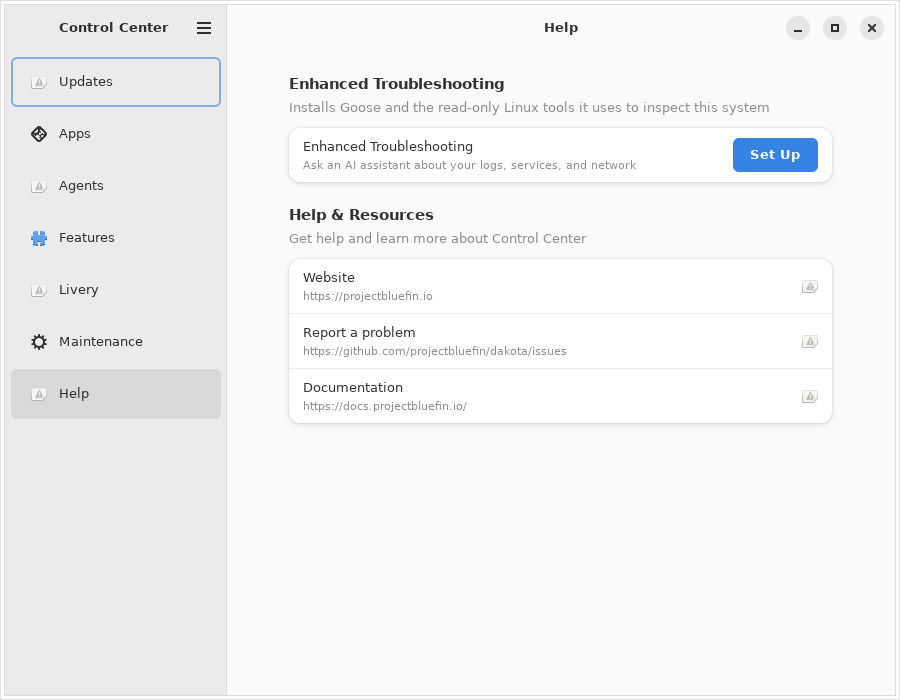
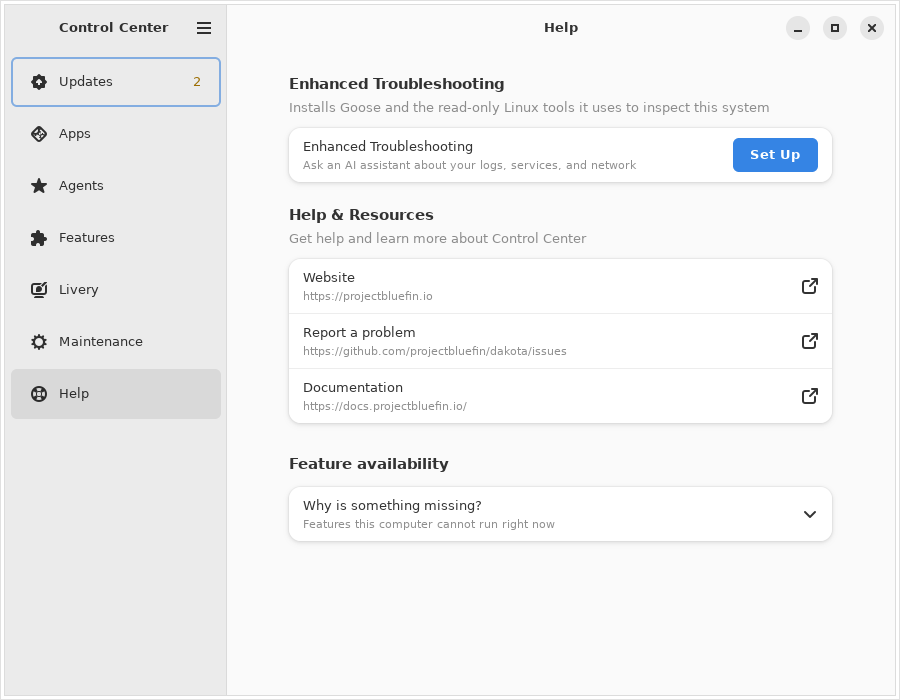
feat(help): explain features the host cannot back (#319)
Help gains a "Feature availability" group with one collapsed
"Why is something missing?" row. It lists every group the configuration
enables but the capability floor hides, with a human title and the
missing tool or file, from the capability set the window already
resolved — nothing is re-probed. A group the configuration disables is
the administrator's choice and is not listed; the group is absent when
nothing is missing.

The presentation is pure (pageview.UnavailableFeatures) and its title
table is held total over the capability-gated groups.

Closes #209

Assisted-by: Claude Opus 5.5 via GitHub Copilot

diff --git a/internal/views/pageview/unavailable.go b/internal/views/pageview/unavailable.go
@@ -1,0 +1,68 @@
+package pageview
+
+import (
+	"strings"
+
+	"github.com/projectbluefin/chairlift/internal/bootc"
+	"github.com/projectbluefin/chairlift/internal/capability"
+	"github.com/projectbluefin/chairlift/internal/imageinfo"
+)
+
+// featureTitles names every group the capability floor can hide. Groups with
+// no prerequisite are never hidden by it, so they have no entry;
+// TestEveryCapabilityGatedGroupHasATitle holds the table total over
+// capability.Prerequisites.
+var featureTitles = map[[2]string]string{
+	{"updates_page", "bootc_updates_group"}:       "System updates",
+	{"updates_page", "flatpak_updates_group"}:     "App updates",
+	{"updates_page", "brew_updates_group"}:        "Developer tool updates",
+	{"updates_page", "brew_trust_group"}:          "Unverified Homebrew sources",
+	{"updates_page", "channel_group"}:             "Release channel",
+	{"applications_page", "flatpak_user_group"}:   "Your apps",
+	{"applications_page", "flatpak_system_group"}: "Shared apps",
+	{"applications_page", "brew_group"}:           "Packages from Homebrew",
+	{"applications_page", "brew_search_group"}:    "Find more apps and tools",
+	{"applications_page", "brew_bundles_group"}:   "App collections",
+	{"agents_page", "agents_group"}:               "Agent Mode",
+	{"features_page", "dx_group"}:                 "Developer mode",
+	{"features_page", "gaming_group"}:             "Gaming mode",
+	{"help_page", "troubleshooting_group"}:        "Enhanced Troubleshooting",
+	{"maintenance_page", "reset_group"}:           "Recovery",
+}
+
+// capabilityNames is what a person would look for on their system to supply
+// one capability. Technical names are fine here: the rows sit behind an
+// expander the user opened to ask why.
+var capabilityNames = map[capability.Capability]string{
+	capability.Flatpak:         "Flatpak",
+	capability.Homebrew:        "Homebrew",
+	capability.Distrobox:       "Distrobox",
+	capability.BootcStage:      bootc.StageScriptPath,
+	capability.ImageDescriptor: imageinfo.DescriptorPath,
+}
+
+// UnavailableFeatures lists the groups configuration enables but the host
+// capability set hides, each titled for a person and subtitled with what is
+// missing. It consumes the already-resolved set, so explaining never
+// re-probes. A nil configured predicate lists nothing: a group configuration
+// disabled is the administrator's choice, not a missing tool.
+func UnavailableFeatures(set capability.Set, configured func(page, group string) bool) []Row {
+	if configured == nil {
+		return nil
+	}
+	var rows []Row
+	for _, p := range capability.Prerequisites() {
+		if !configured(p.Page, p.Group) || set.Supports(p.Page, p.Group) {
+			continue
+		}
+		missing := make([]string, len(p.AnyOf))
+		for i, c := range p.AnyOf {
+			missing[i] = capabilityNames[c]
+		}
+		rows = append(rows, Row{
+			Title:    featureTitles[[2]string{p.Page, p.Group}],
+			Subtitle: "Needs " + strings.Join(missing, " or "),
+		})
+	}
+	return rows
+}

diff --git a/internal/views/pageview/unavailable_test.go b/internal/views/pageview/unavailable_test.go
@@ -1,0 +1,94 @@
+package pageview
+
+import (
+	"testing"
+
+	"github.com/projectbluefin/chairlift/internal/capability"
+)
+
+func onlyGroups(pairs ...[2]string) func(page, group string) bool {
+	return func(page, group string) bool {
+		for _, p := range pairs {
+			if p == [2]string{page, group} {
+				return true
+			}
+		}
+		return false
+	}
+}
+
+func allGroups(string, string) bool { return true }
+
+func TestUnavailableFeaturesListsConfiguredGroupsTheHostCannotBack(t *testing.T) {
+	configured := onlyGroups(
+		[2]string{"updates_page", "flatpak_updates_group"},
+		[2]string{"maintenance_page", "reset_group"},
+		[2]string{"agents_page", "agents_group"},
+	)
+	// Homebrew present backs Agent Mode; Distrobox alone backs Recovery.
+	set := capability.Set{capability.Homebrew: true}
+
+	got := UnavailableFeatures(set, configured)
+	want := []Row{
+		{Title: "Recovery", Subtitle: "Needs Flatpak or Distrobox"},
+		{Title: "App updates", Subtitle: "Needs Flatpak"},
+	}
+	if len(got) != len(want) {
+		t.Fatalf("UnavailableFeatures() = %+v, want %+v", got, want)
+	}
+	for i := range want {
+		if got[i] != want[i] {
+			t.Errorf("row %d = %+v, want %+v", i, got[i], want[i])
+		}
+	}
+}
+
+func TestUnavailableFeaturesOmitsConfigDisabledGroups(t *testing.T) {
+	// Nothing on the host, but configuration enables nothing either: every
+	// hidden group is the administrator's choice, not a missing tool.
+	if got := UnavailableFeatures(capability.Set{}, func(string, string) bool { return false }); len(got) != 0 {
+		t.Errorf("config-disabled groups listed: %+v", got)
+	}
+	if got := UnavailableFeatures(capability.Set{}, nil); len(got) != 0 {
+		t.Errorf("nil configuration listed groups: %+v", got)
+	}
+}
+
+func TestUnavailableFeaturesIsEmptyWhenEveryCapabilityIsPresent(t *testing.T) {
+	set := capability.Set{}
+	for _, p := range capability.Prerequisites() {
+		for _, c := range p.AnyOf {
+			set[c] = true
+		}
+	}
+	if got := UnavailableFeatures(set, allGroups); len(got) != 0 {
+		t.Errorf("fully capable host listed: %+v", got)
+	}
+}
+
+func TestEveryCapabilityGatedGroupHasATitle(t *testing.T) {
+	// With nothing present every gated group is listed, so a table gap shows
+	// up as a blank title or an unnamed capability.
+	rows := UnavailableFeatures(capability.Set{}, allGroups)
+	if len(rows) == 0 {
+		t.Fatal("no capability-gated groups; the check is vacuous")
+	}
+	for _, p := range capability.Prerequisites() {
+		if len(p.AnyOf) == 0 {
+			continue
+		}
+		if featureTitles[[2]string{p.Page, p.Group}] == "" {
+			t.Errorf("%s/%s has no title", p.Page, p.Group)
+		}
+		for _, c := range p.AnyOf {
+			if capabilityNames[c] == "" {
+				t.Errorf("capability %q has no name", c)
+			}
+		}
+	}
+	for key := range featureTitles {
+		if required, ok := capability.Required(key[0], key[1]); !ok || len(required) == 0 {
+			t.Errorf("%s/%s is titled but not capability-gated", key[0], key[1])
+		}
+	}
+}

diff --git a/internal/views/help_page.go b/internal/views/help_page.go
@@ -62,6 +62,25 @@ func (uh *UserHome) buildHelpPage() {
 
 		page.Add(group)
 	}
+
+	// Feature availability (issue #209): groups configuration enables but
+	// this host cannot back, from the capability set resolved at startup.
+	// Collapsed behind one expander, and absent when nothing is missing.
+	if rows := pageview.UnavailableFeatures(uh.capabilities, uh.config.IsGroupEnabled); len(rows) > 0 {
+		group := adw.NewPreferencesGroup()
+		group.SetTitle("Feature availability")
+		expander := adw.NewExpanderRow()
+		expander.SetTitle("Why is something missing?")
+		expander.SetSubtitle("Features this computer cannot run right now")
+		for _, r := range rows {
+			row := adw.NewActionRow()
+			row.SetTitle(r.Title)
+			row.SetSubtitle(r.Subtitle)
+			expander.AddRow(&row.Widget)
+		}
+		group.Add(&expander.Widget)
+		page.Add(group)
+	}
 }
 
 // openURL opens a URL in the default browser using xdg-open

diff --git a/internal/capability/capability.go b/internal/capability/capability.go
@@ -294,9 +294,9 @@ func Required(page, group string) (required []Capability, classified bool) {
 }
 
 // Prerequisites returns every classified pair, ordered by page and then group,
-// each with a copy of its capabilities. It exists so a gate can hold the table
-// to the configuration schema in both directions; nothing in the running
-// application needs the whole table.
+// each with a copy of its capabilities. A gate holds it to the configuration
+// schema in both directions, and the Help page walks it to explain which
+// configured groups this host cannot back.
 func Prerequisites() []Prerequisite {
 	result := make([]Prerequisite, len(prerequisites))
 	for i, p := range prerequisites {

diff --git a/internal/views/pageview/wiring_test.go b/internal/views/pageview/wiring_test.go
@@ -154,7 +154,7 @@ func TestPageBuildersUsePurePresentations(t *testing.T) {
 		},
 		{
 			file:     "help_page.go",
-			required: []string{"pageview.HelpResources("},
+			required: []string{"pageview.HelpResources(", "pageview.UnavailableFeatures("},
 			retired:  []string{`row.SetTitle("Website")`, `row.SetTitle("Report Issues")`},
 		},
 		{

diff --git a/docs/design/overview.md b/docs/design/overview.md
@@ -89,7 +89,7 @@ disabled; Help is always retained:
 | System       | `system_page.go`       | OS info (`/etc/os-release`), bootc deployment status, health monitor launch                                                             |
 | Features     | `features_page.go`     | Toggle system features via `updex` tool                                                                                                 |
 | Livery       | `livery_page.go`       | Profile picture (`profile_picture.go`, `internal/avatar`); app-grid, panel, and Files marks, by shadowing icon-theme names in the user's own theme (`internal/livery`) |
-| Help         | `help_page.go`         | Configurable links to website, issues, chat (opened via `xdg-open`)                                                                     |
+| Help         | `help_page.go`         | Configurable links to website, issues, chat (opened via `xdg-open`); "Why is something missing?" lists configured groups the capability floor hides |
 
 ## Key Patterns
 
@@ -1120,6 +1120,15 @@ answer alone will not reveal the mistake. Without the gate, a group added to
 `config.yml` and wired into a view would render on hosts whose backing tool is
 absent — the exact degradation policy this package exists to enforce — and no
 other gate would notice.
+
+The Help page's "Why is something missing?" expander is the floor's one
+explanation surface. `pageview.UnavailableFeatures(set, configured)` walks
+`capability.Prerequisites()` with the window's already-resolved set — it never
+re-probes — and lists each group that configuration enables but `Supports`
+rejects, titled for a person and subtitled with the missing capability. A group
+configuration disabled is the administrator's choice and is not listed. Its
+title table is held total over the capability-gated groups by
+`TestEveryCapabilityGatedGroupHasATitle`.
 
 The package's own tests are table-driven and derive their cases from the tables
 they cover, rather than restating them. `TestDetectWithResolvesEveryCapability`

diff --git a/docs/reference.md b/docs/reference.md
@@ -189,6 +189,8 @@ Each action has:
 | Enhanced Troubleshooting | `troubleshooting_group` | AI assistant for diagnosing system logs, services, and network; moved here from Features (issue #249); shown only when Homebrew is present |
 | Resources | `help_resources_group` | Links to project resources |
 
+Help also shows a **Feature availability** group — not configurable, and absent when empty — whose collapsed "Why is something missing?" row lists each group the configuration enables but the host cannot back, with the missing tool or file (`pageview.UnavailableFeatures`, from the capability set resolved at startup; issue #209).
+
 `help_resources_group` supports:
 
 | Field | Description |

diff --git a/docs/walkthrough.md b/docs/walkthrough.md
@@ -192,6 +192,11 @@ Those stay hidden normally until turned on or until a rollback exists.
 Three links, each shown only when it is configured: **Website**, **Report a
 problem** (the `issues` URL, where bug reports go), and **Documentation**.
 
+When the configuration turns on something this computer cannot run — Flatpak
+or Homebrew is absent, or the machine is not a native A/B install — **Feature
+availability** appears with one collapsed row, **Why is something missing?**,
+that names each such feature and what it needs.
+
 ---
 
 ## How these are made
